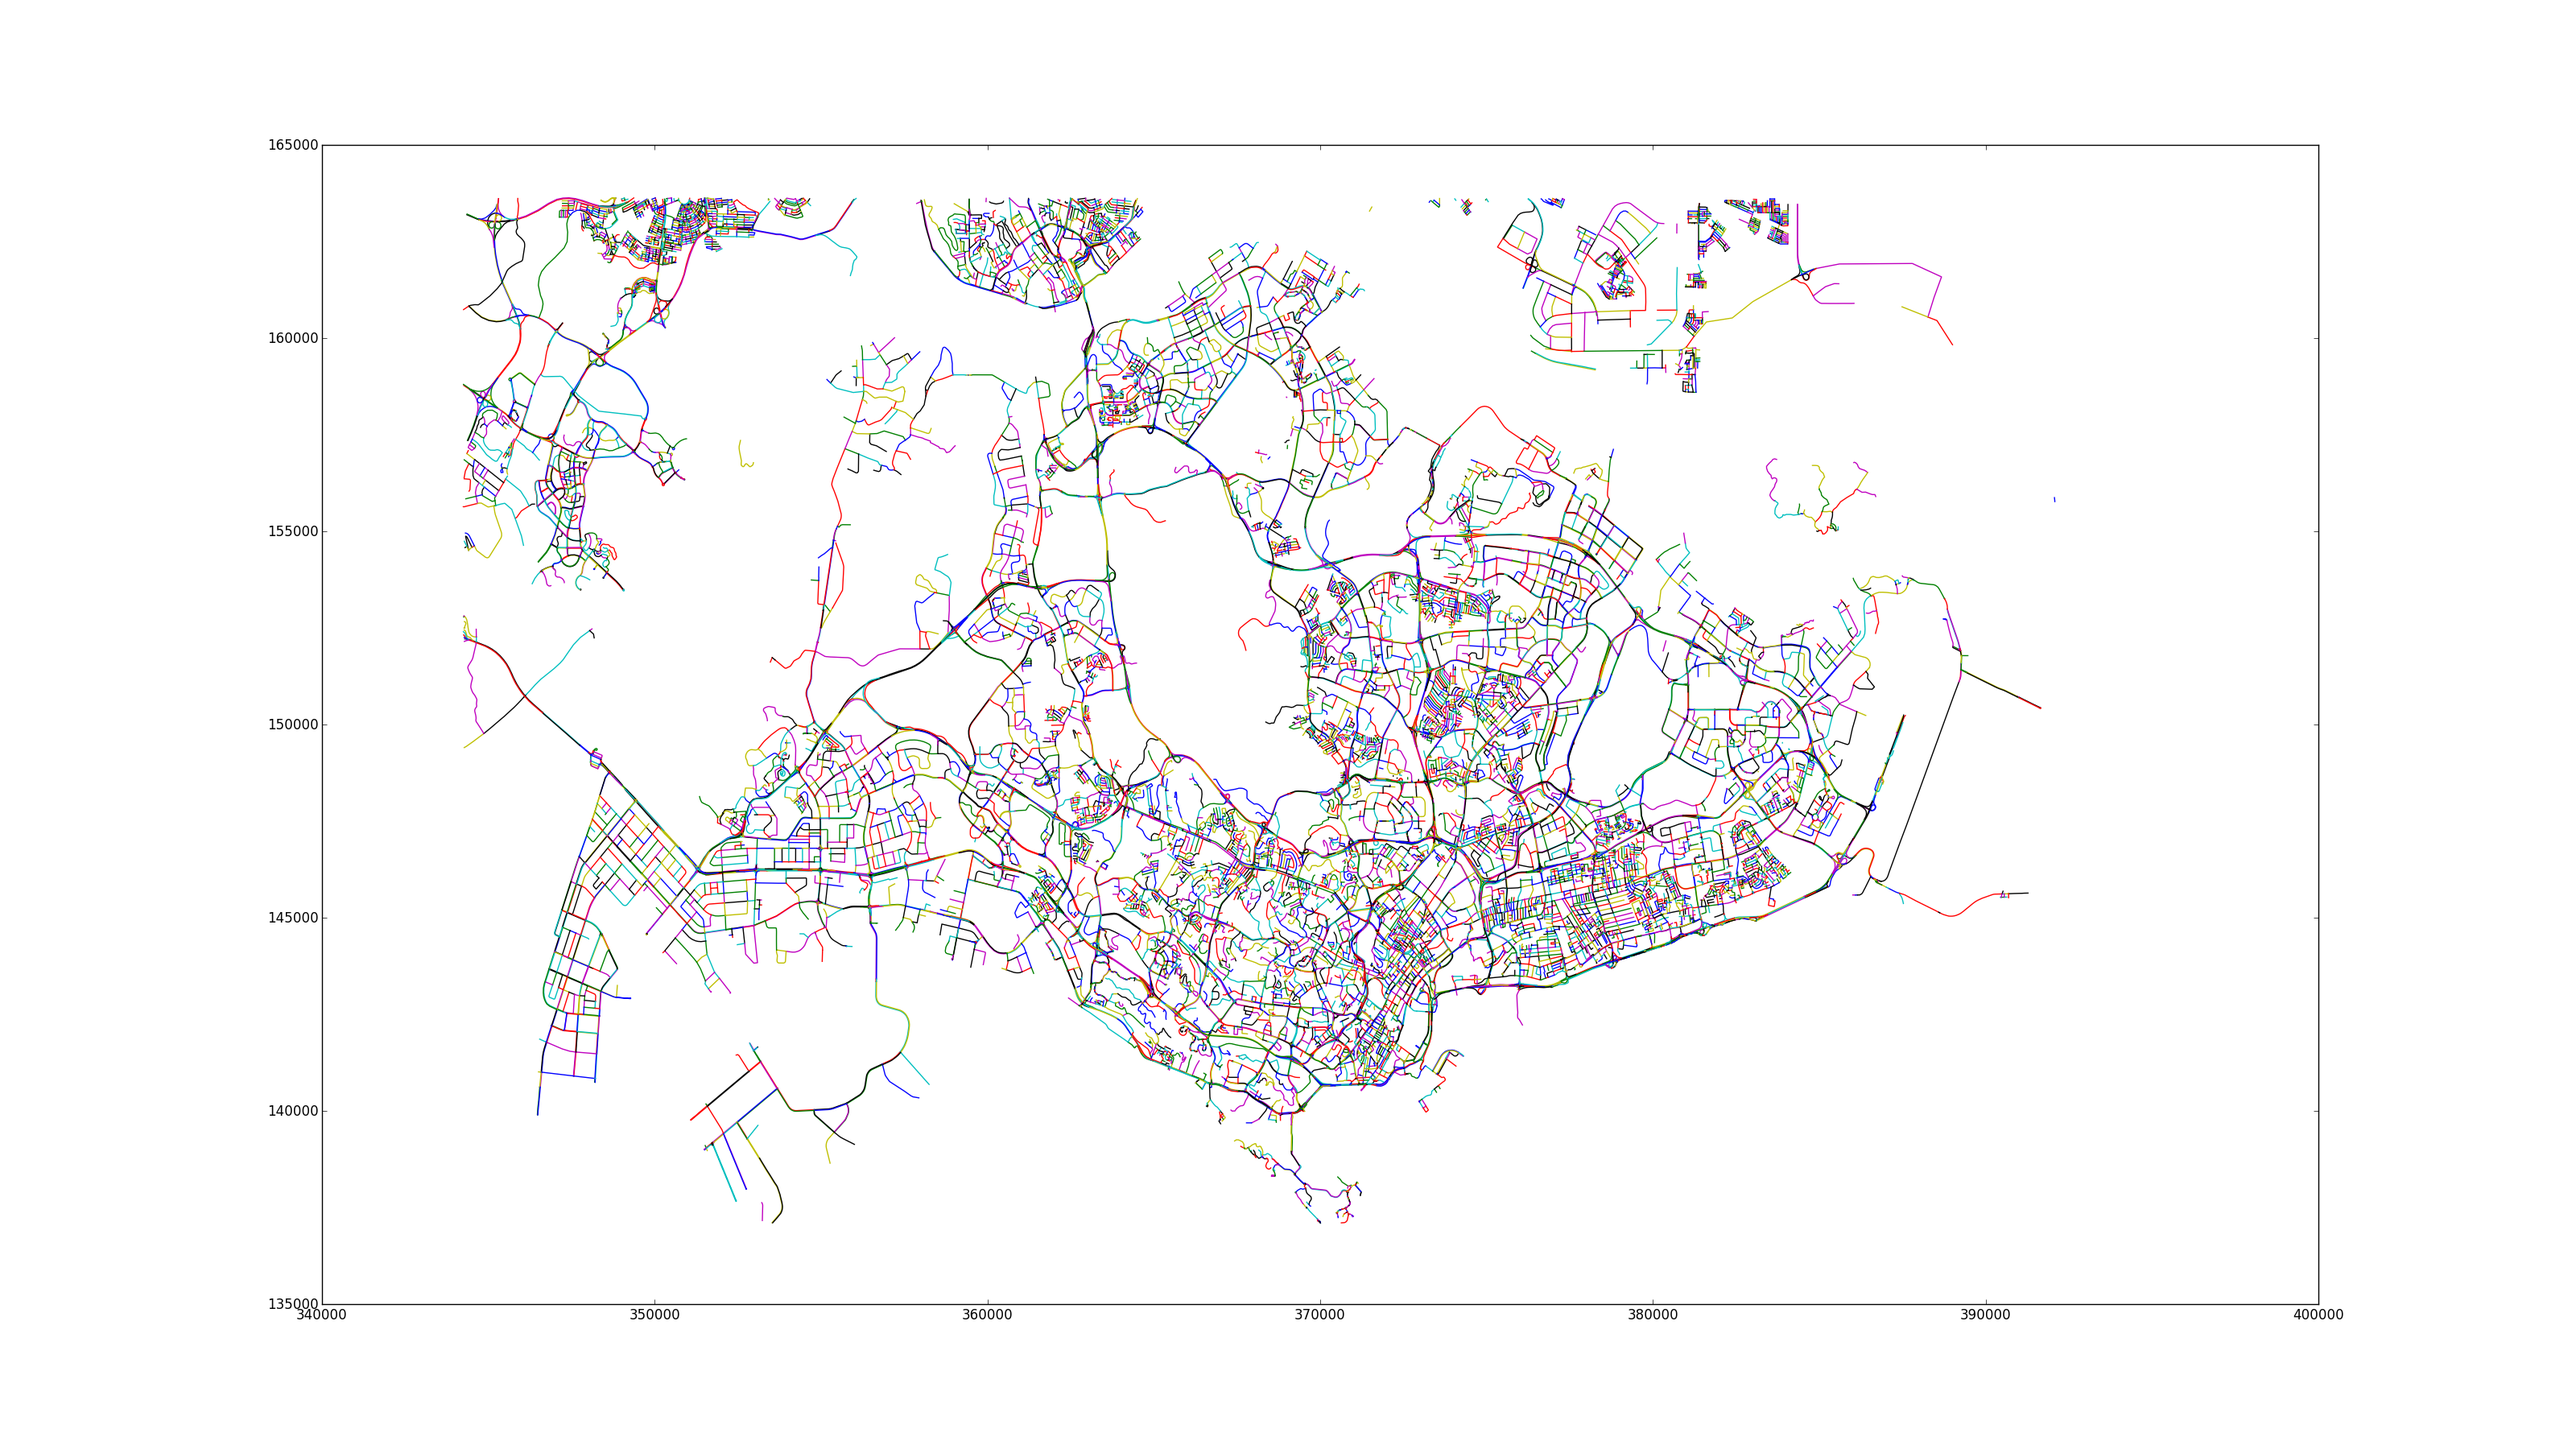
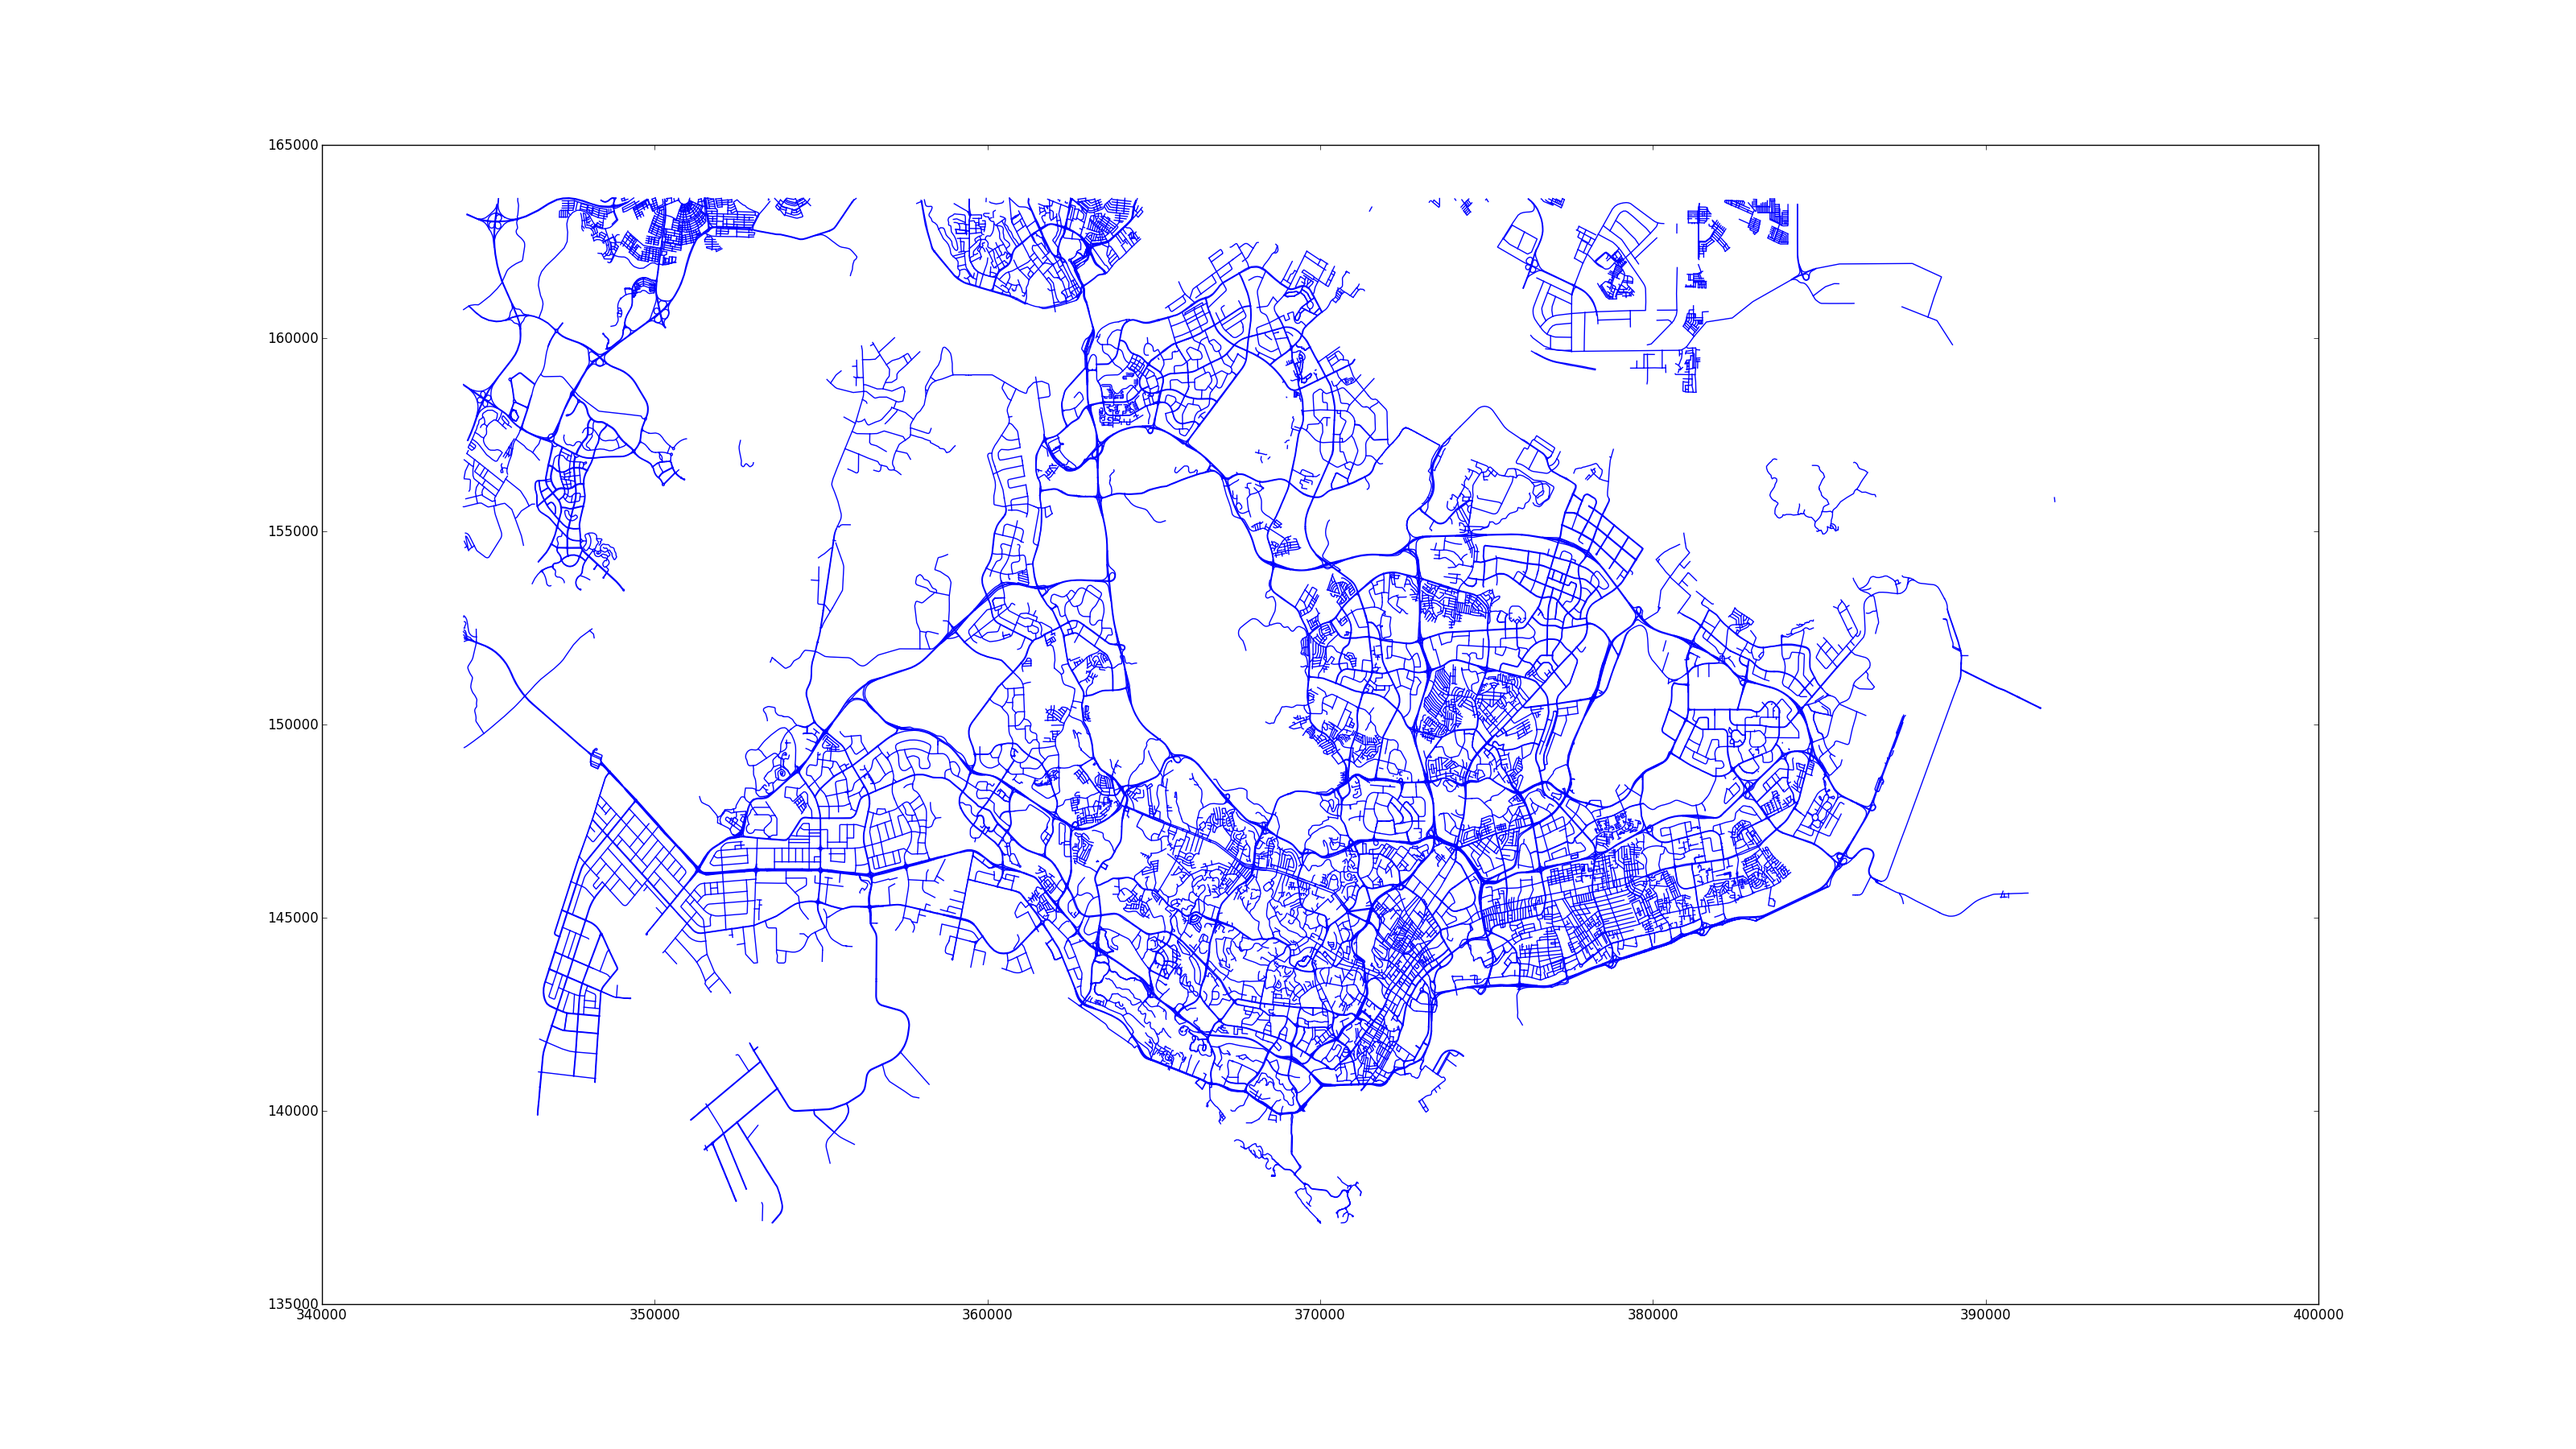
modified:   map/nxgviz.py

diff --git a/map/nxgviz.py b/map/nxgviz.py
@@ -4,19 +4,20 @@ import argparse
 import ast
 
 import networkx as nx
-import matplotlib.pyplot as plt
 
-def do_main(fn_nxg, w=32, h=18, dpi=80, links=[]):
-    gg = nx.read_gpickle(fn_nxg)
-    src = gg.graph['Source'] if 'Source' in gg.graph else ''
-    print 'G={nodes=%d, links=%d, source=%s, srid=%s, points=%d}' % (len(gg.nodes()),len(gg.edges()),src,gg.graph['SRID'],len(gg.graph['Points']))
+def do_draw(G, fn_nxg, w=32, h=18, dpi=80, links=[]):
+    from matplotlib import pyplot as plt
+    import numpy as np
     
+    Start = datetime.datetime.now()
     plt.figure(figsize=(w,h),dpi=dpi)
     
-    for (u,v,d) in gg.edges_iter(data=True):
-        xys = [gg.graph['Points'][p] for p in d['points']]
-        xs = [x for x,y in xys]
-        ys = [y for x,y in xys]
+    for (u,v,d) in G.edges_iter(data=True):
+        xys = [G.graph['Points'][p] for p in d['points']]
+        #xs = [x for x,y in xys]
+        #ys = [y for x,y in xys]
+        xs = np.array([x for x,y in xys])
+        ys = np.array([y for x,y in xys])
         
         if links != None and d['id'] in links:
             plt.plot(xs, ys, 'r', linewidth=2)
@@ -24,7 +25,79 @@ def do_main(fn_nxg, w=32, h=18, dpi=80, links=[]):
             plt.plot(xs, ys, 'b', linewidth=1)
           
     plt.savefig('%s.png'%(fn_nxg))
+    print 'Finished img in %fs' %(datetime.datetime.now() - Start).total_seconds()
+    
     plt.show()
+
+def do_draw2(G, width=800, height=600, links=[]):
+    from Tkinter import *
+    
+    root = Tk()
+    canvas = Canvas(root,width=800,height=600,scrollregion=(0,0,width,height))
+    hbar = Scrollbar(canvas,orient=HORIZONTAL)
+    hbar.pack(side=BOTTOM,fill=X)
+    hbar.config(command=canvas.xview)
+    vbar = Scrollbar(canvas,orient=VERTICAL)
+    vbar.pack(side=RIGHT,fill=Y)
+    vbar.config(command=canvas.yview)
+    canvas.config(width=800,height=600)
+    canvas.config(xscrollcommand=hbar.set, yscrollcommand=vbar.set)
+    canvas.pack(side=LEFT,expand=True,fill=BOTH)
+    
+    xx0,xx1,yy0,yy1 = 345000,390000,135000,165000
+    w2w, h2h = width/float(xx1-xx0), height/float(yy1-yy0)
+    
+    for (u,v,d) in G.edges_iter(data=True):
+        clr = 'red' if links != None and d['id'] in links else 'blue'
+        
+        xys = [((x-xx0)*w2w,(yy1-y)*h2h) for x,y in [G.graph['Points'][p] for p in d['points']]]
+        x0,y0 = xys[0]
+        for x1,y1 in xys[1:]:
+            canvas.create_line(x0, y0, x1, y1, fill=clr)
+            x0,y0 = x1,y1
+            
+    root.mainloop()
+
+def do_draw3(G, bbox, links=[]):
+    import pyglet
+
+    xx0,xx1,yy0,yy1 = bbox
+    
+    window = pyglet.window.Window(resizable=True,width=800,height=600)
+    pyglet.gl.glClearColor(1, 1, 1, 1)
+    
+    @window.event
+    def on_draw():
+        window.clear()
+        w2w, h2h = window.width/float(xx1-xx0), window.height/float(yy1-yy0)
+
+        pyglet.gl.glColor4f(0,0,1,1)
+        #batch = pyglet.graphics.Batch()    
+        for (u,v,d) in G.edges_iter(data=True):
+            xys = [((x-xx0)*w2w,(y-yy0)*h2h) for x,y in [G.graph['Points'][p] for p in d['points']]]
+            pyglet.graphics.draw(len(xys), pyglet.gl.GL_LINES,('v2f', sum(xys,())))
+            
+    pyglet.app.run()
+
+def do_main(fn_nxg, w=32, h=18, dpi=80, links=[]):
+    gg = nx.read_gpickle(fn_nxg)
+    src = gg.graph['Source'] if 'Source' in gg.graph else ''
+    print 'G={nodes=%d, links=%d, source=%s, srid=%s, points=%d}' % (len(gg.nodes()),len(gg.edges()),src,gg.graph['SRID'],len(gg.graph['Points']))
+
+    l = nx.get_edge_attributes(gg,'points').values()
+    ps = [item for sublist in l for item in sublist]
+    xs = [gg.graph['Points'][p][0] for p in ps]
+    ys = [gg.graph['Points'][p][1] for p in ps]
+    
+    import math
+    xx0,xx1 = math.floor(min(xs)*0.99), math.ceil(max(xs)*1.01)
+    yy0,yy1 = math.floor(min(ys)*0.99), math.ceil(max(ys)*1.01)
+    print min(xs),max(xs),min(ys),max(ys)
+    print xx0,xx1,yy0,yy1
+    
+    #do_draw(gg,fn_nxg,w,h,dpi,links)
+    #do_draw2(gg,width=w*dpi,height=h*dpi,links=links)
+    do_draw3(gg,(xx0,xx1,yy0,yy1),links=links)
 
 if __name__ == "__main__":
     parser = argparse.ArgumentParser()
